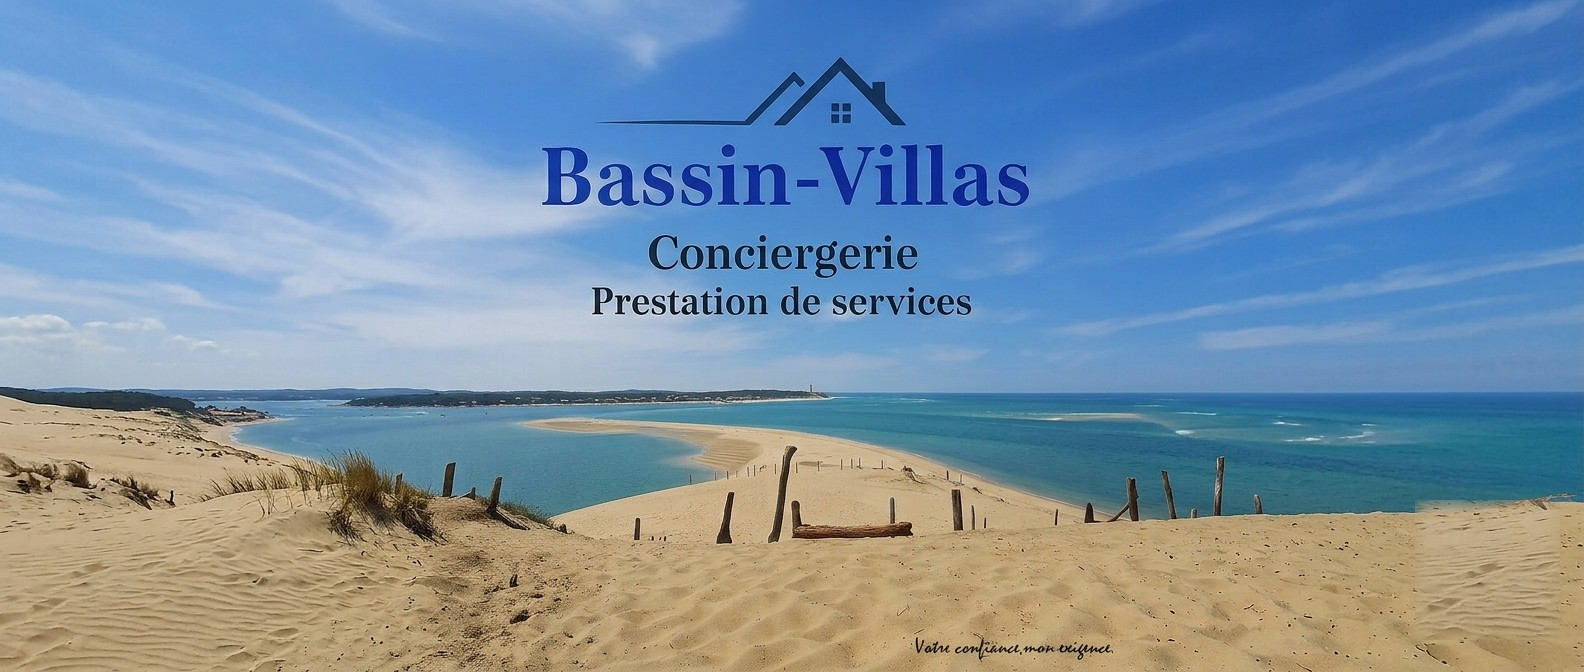
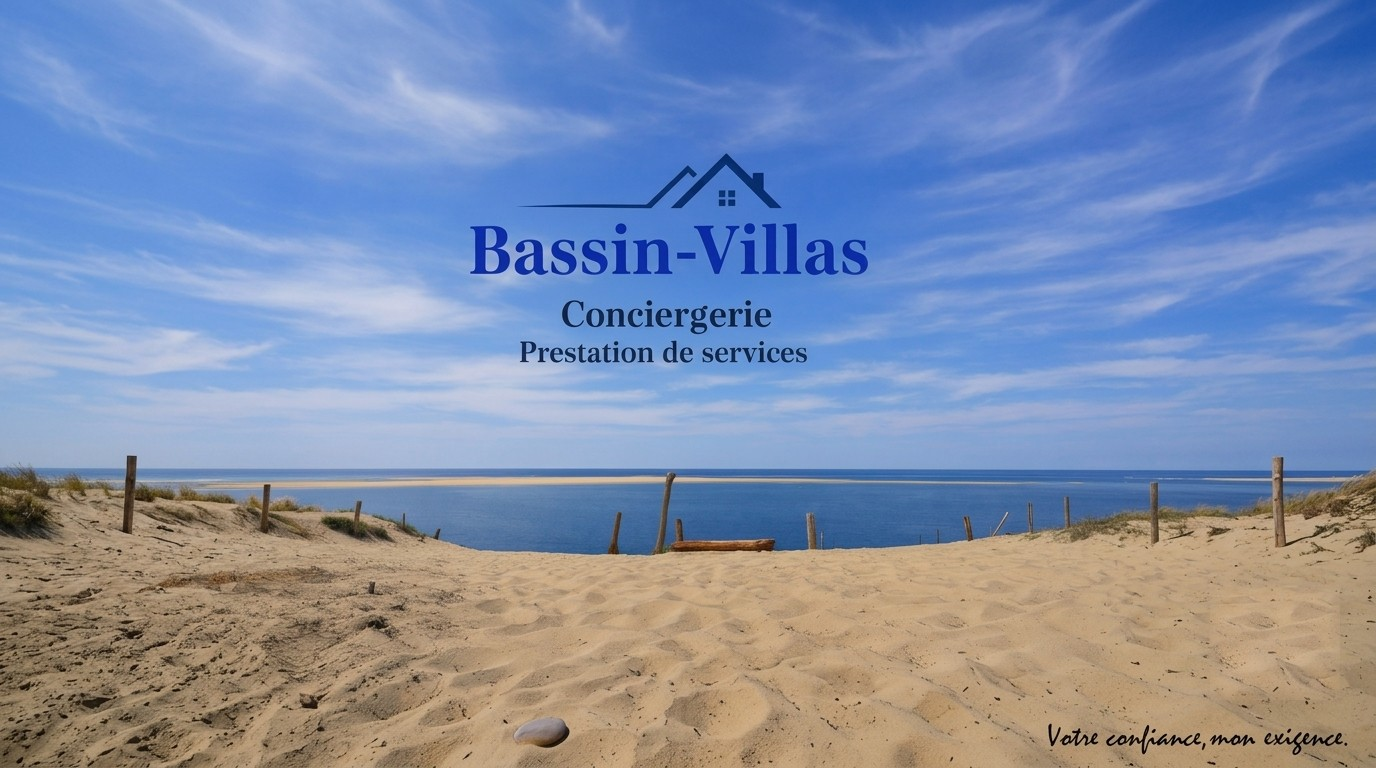
Nouvelles images accueil (16:9 desktop, 9:16 mobile), étirement léger pour combler tout l'écran sans bandes

diff --git a/style.css b/style.css
@@ -387,7 +387,7 @@ button.cta {
 .hero.hero-accueil::after {
   inset: 0;
   background-image: linear-gradient(rgba(10, 20, 40, 0.15), rgba(10, 20, 40, 0.15)), url("assets/accueil-bg.jpg");
-  background-size: auto, contain;
+  background-size: auto, 100% 100%;
   background-position: center;
   z-index: -1;
 }
